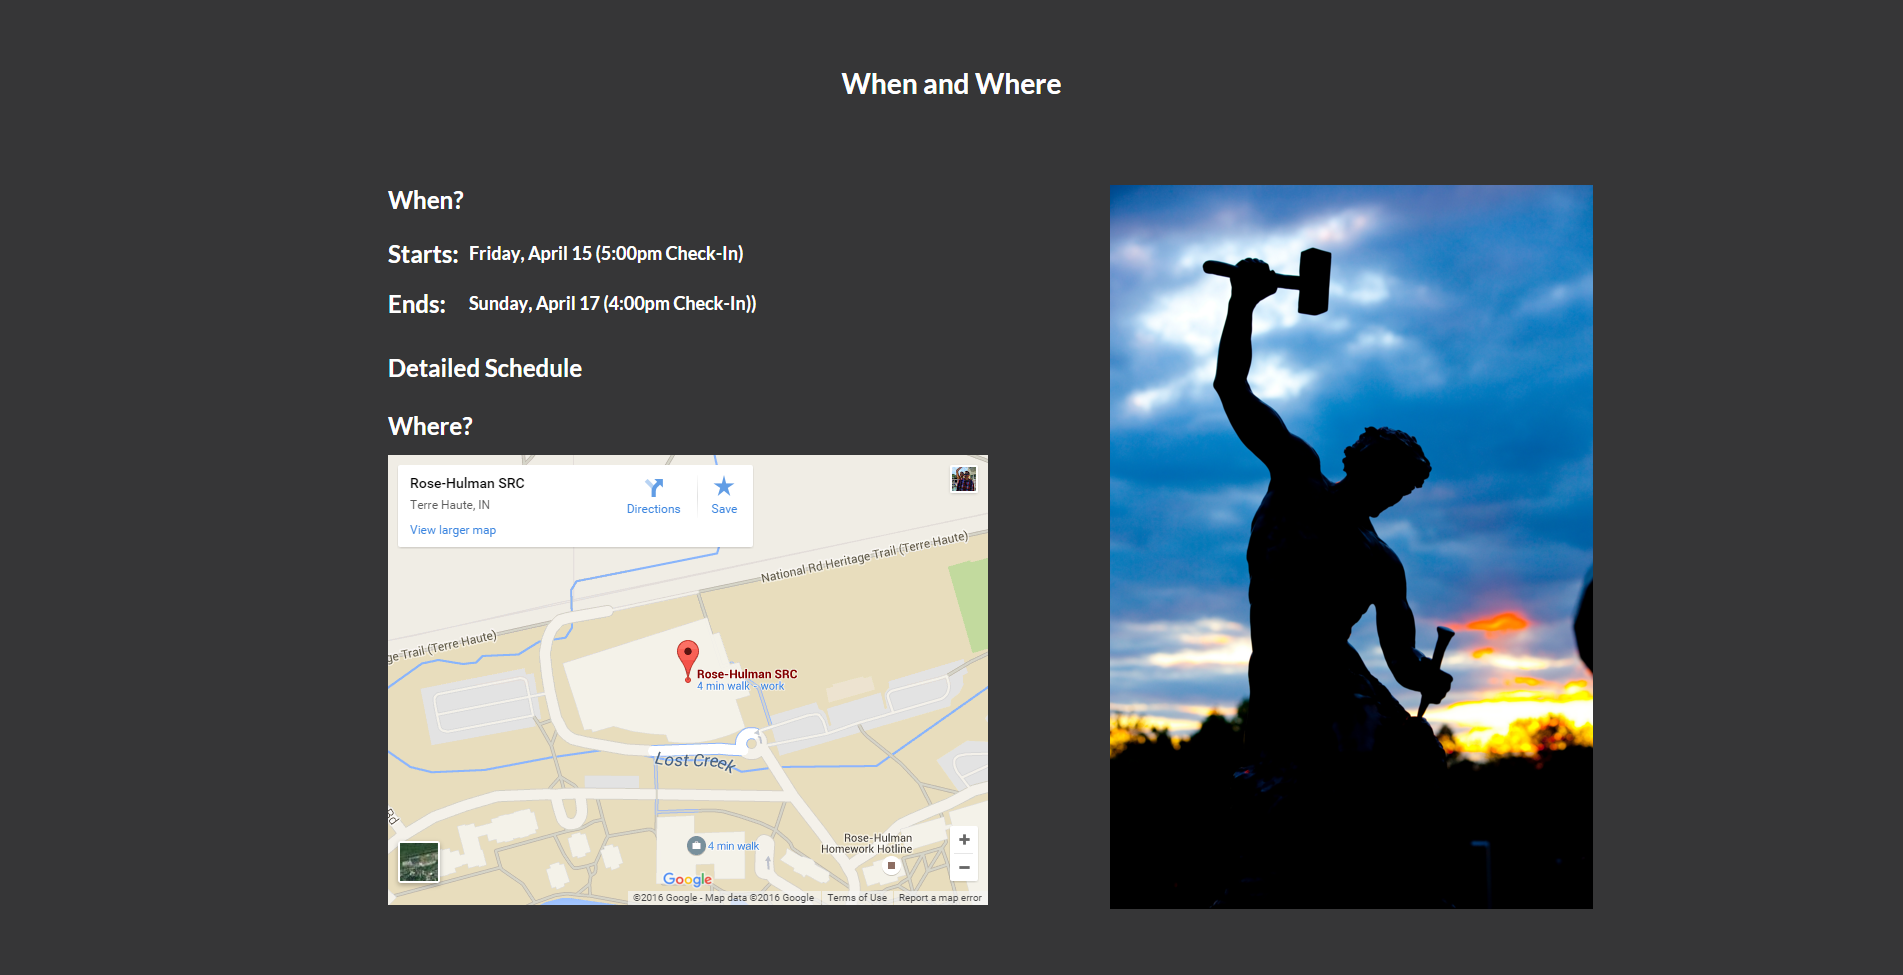
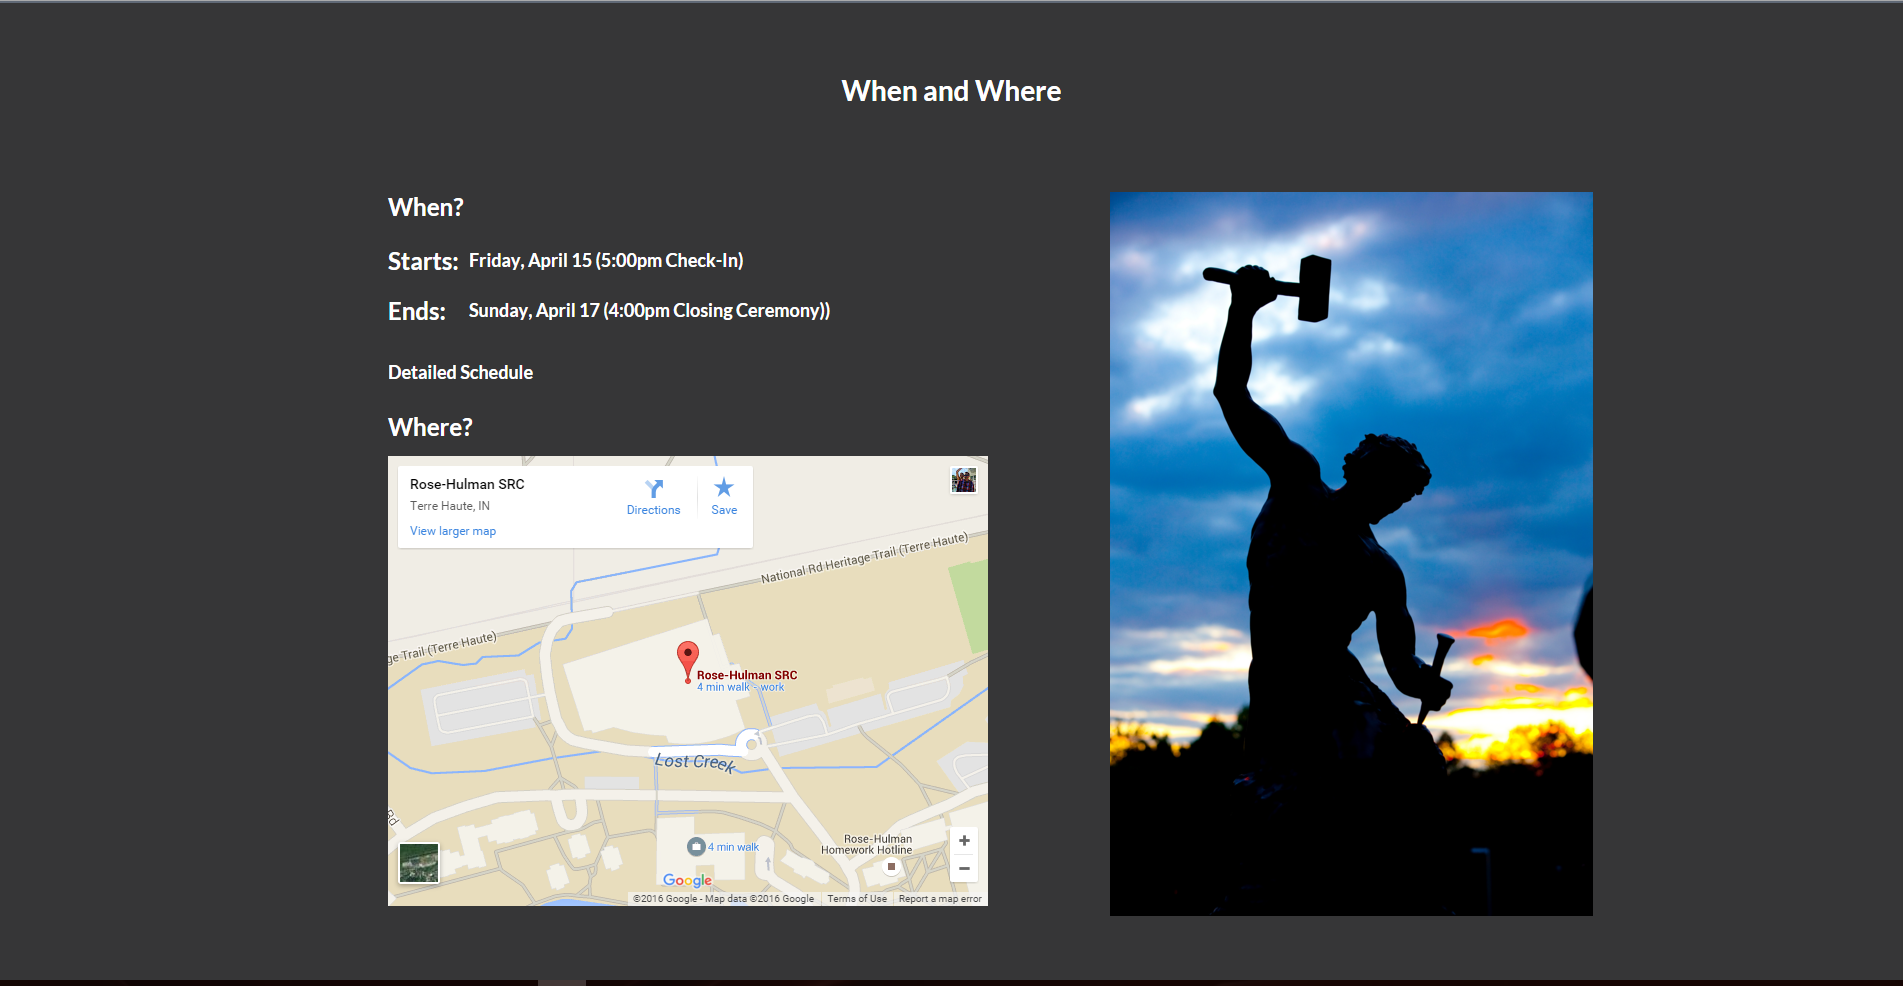
small changes

diff --git a/views/when-and-where.html b/views/when-and-where.html
@@ -14,7 +14,7 @@
                             </tr>
                             <tr>
                                 <td><h2>Ends: </h2></td>
-                                <td><h3> Sunday, April 17 (4:00pm Check-In))</h3></td>
+                                <td><h3> Sunday, April 17 (4:00pm Closing Ceremony))</h3></td>
                             </tr>
                         </table>
                        <h3><a href="#schedule">Detailed Schedule</a></h3>

diff --git a/README.md b/README.md
@@ -4,7 +4,7 @@
 git clone https://github.com/Doolan/IvoryHacks.git
 cd IvoryHacks
 npm install #installs all of the packages
-npm run
+npm start
 ```
 ###_Required Tools_
 _Install these first_
